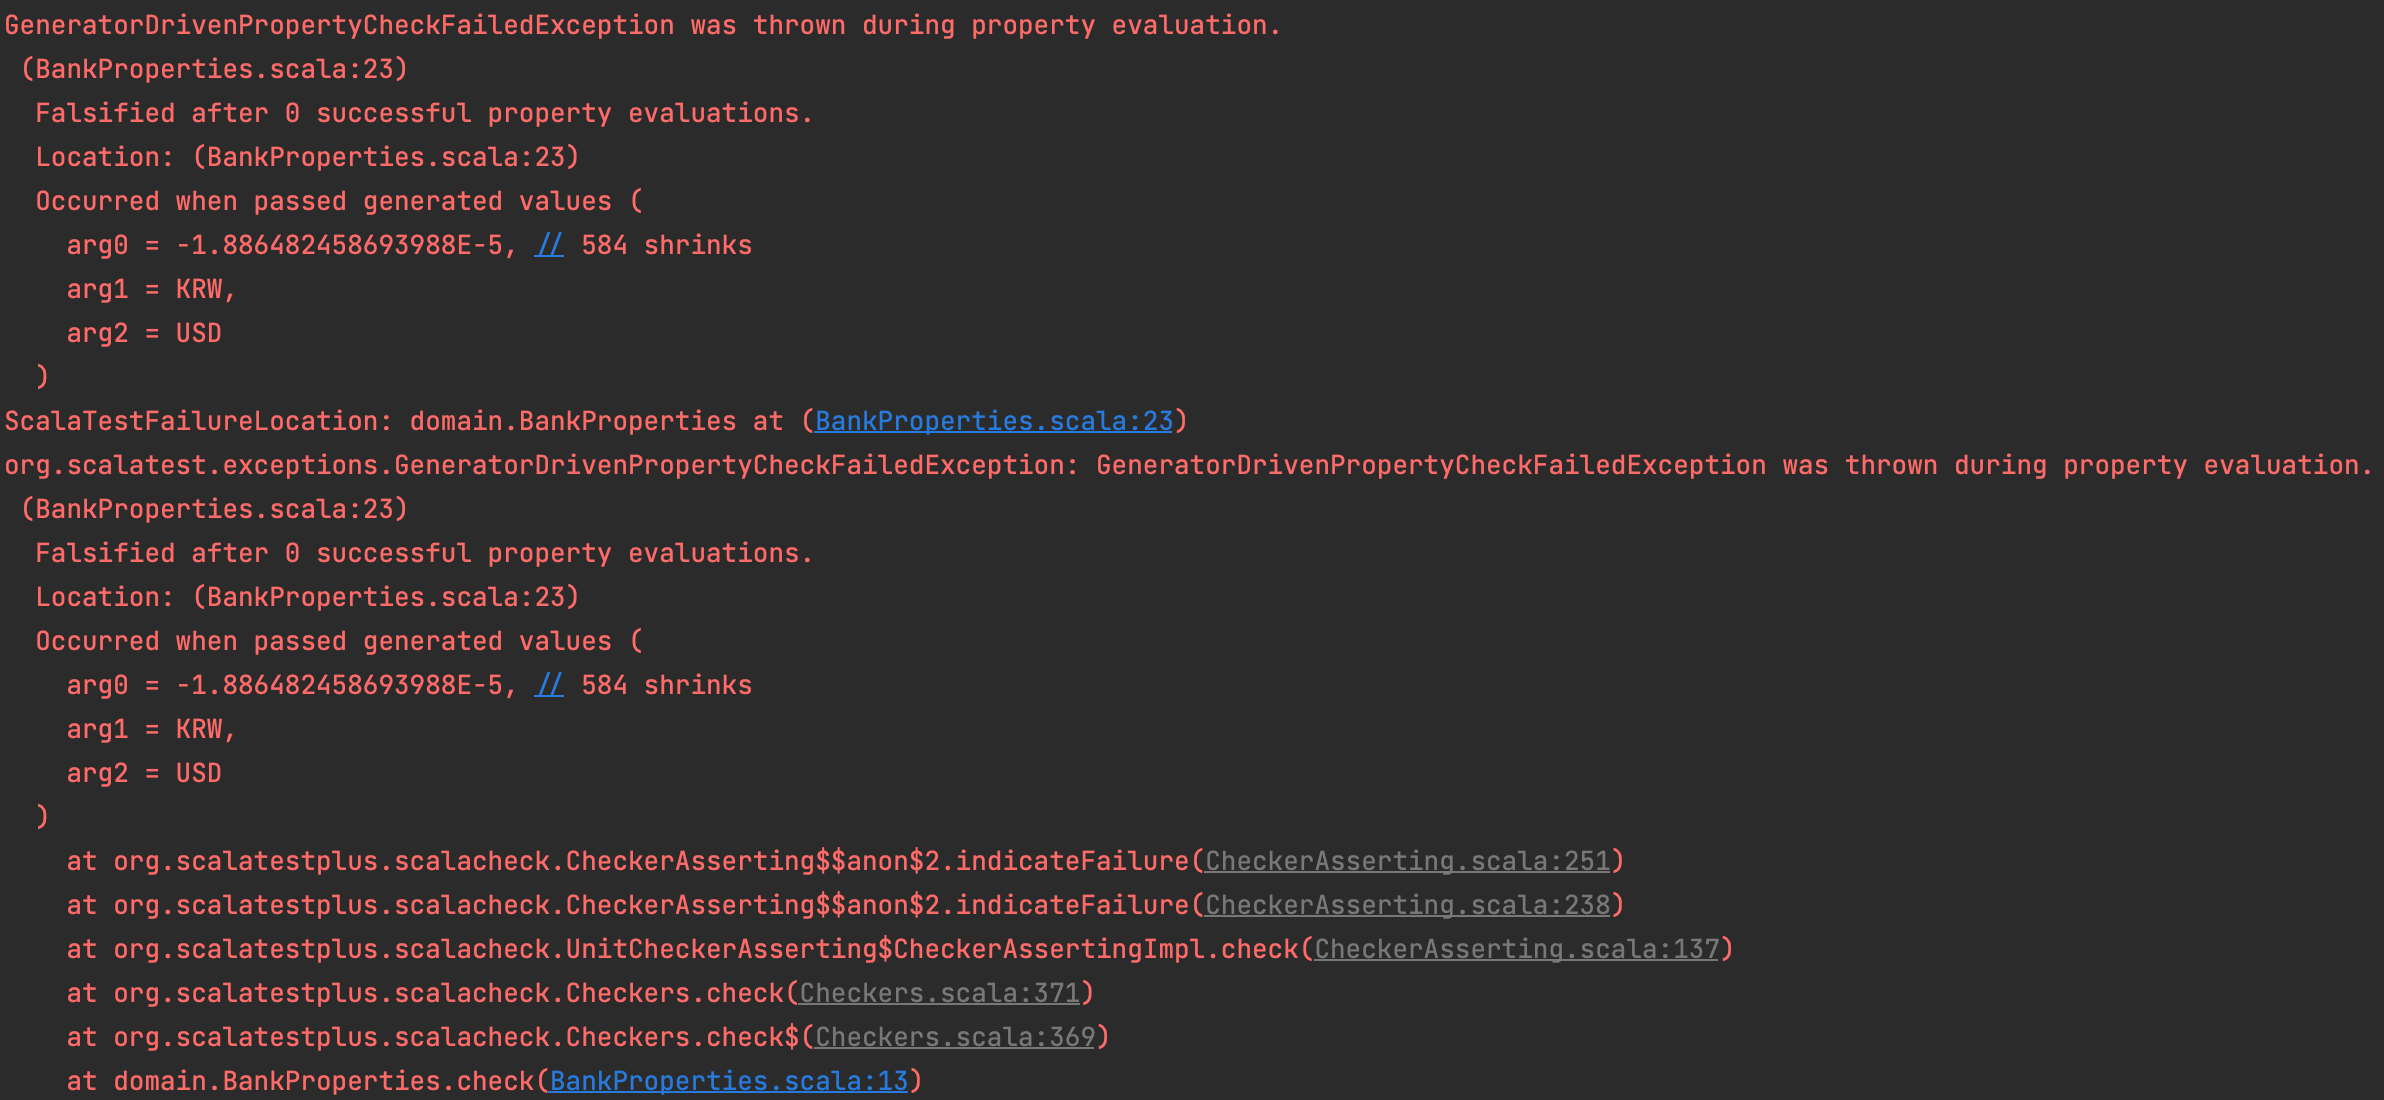
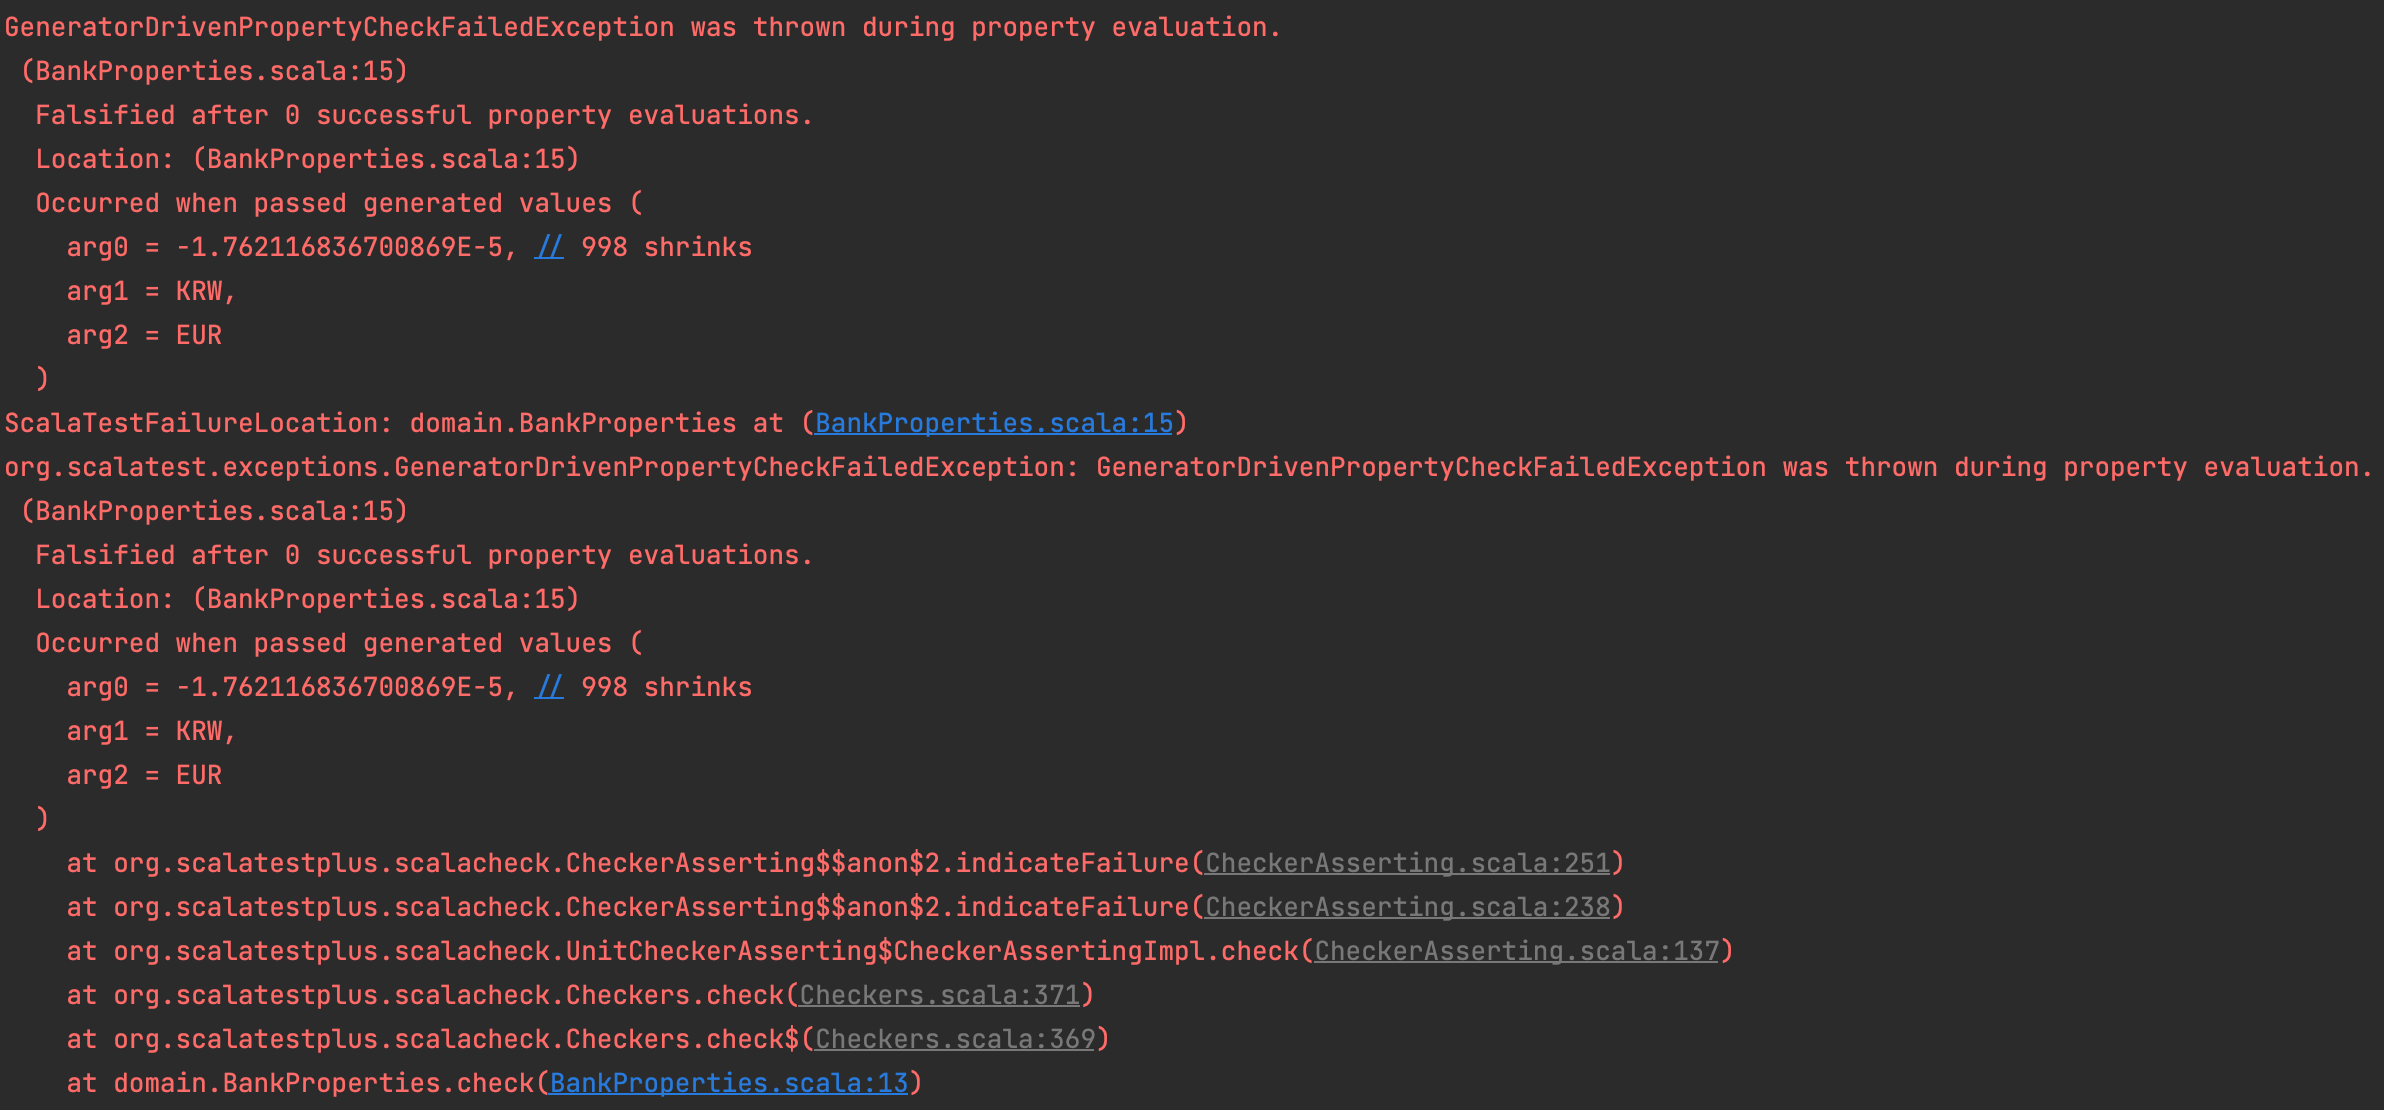
fix images and example based test

diff --git a/scala/docs/8.bank-properties.md b/scala/docs/8.bank-properties.md
@@ -237,10 +237,10 @@ test("round tripping in different currencies") {
 We can now describe the example found by `scalacheck`
 ```scala
   test("round trip in error") {
-    val originalAmount = -1.7462583255741694e-5
-    val roundTripMoney = roundTripConvert(originalAmount, EUR, KRW)
+    val originalAmount = -1.762116836700869e-5
+    val roundTripMoney = roundTripConvert(originalAmount, KRW, EUR)
 
-    assert(roundTripMoney.value == Money(originalAmount, EUR))
+    assert(roundTripMoney.value == Money(originalAmount, KRW))
   }
 ```
 
@@ -257,8 +257,8 @@ Let's iterate on it with our domain experts
 
 ```scala
   test("round trip in error") {
-    val originalAmount = -1.7462583255741694e-5
-    val roundTripAmount = roundTripConvert(originalAmount, EUR, KRW).value
+    val originalAmount = -1.762116836700869e-5
+    val roundTripAmount = roundTripConvert(originalAmount, KRW, EUR).value
 
     assert(
       abs(roundTripAmount.amount - originalAmount)
@@ -314,9 +314,8 @@ class BankProperties extends AnyFunSuite with Checkers with EitherValues {
   }
 
   test("round trip in error") {
-    val originalAmount = -1.7462583255741694e-5
-    val roundTripAmount =
-      roundTripConvert(originalAmount, EUR, KRW).value.amount
+    val originalAmount = -1.762116836700869e-5
+    val roundTripAmount = roundTripConvert(originalAmount, KRW, EUR).value
 
     assert(amountsAreClosed(originalAmount, roundTripAmount))
   }
